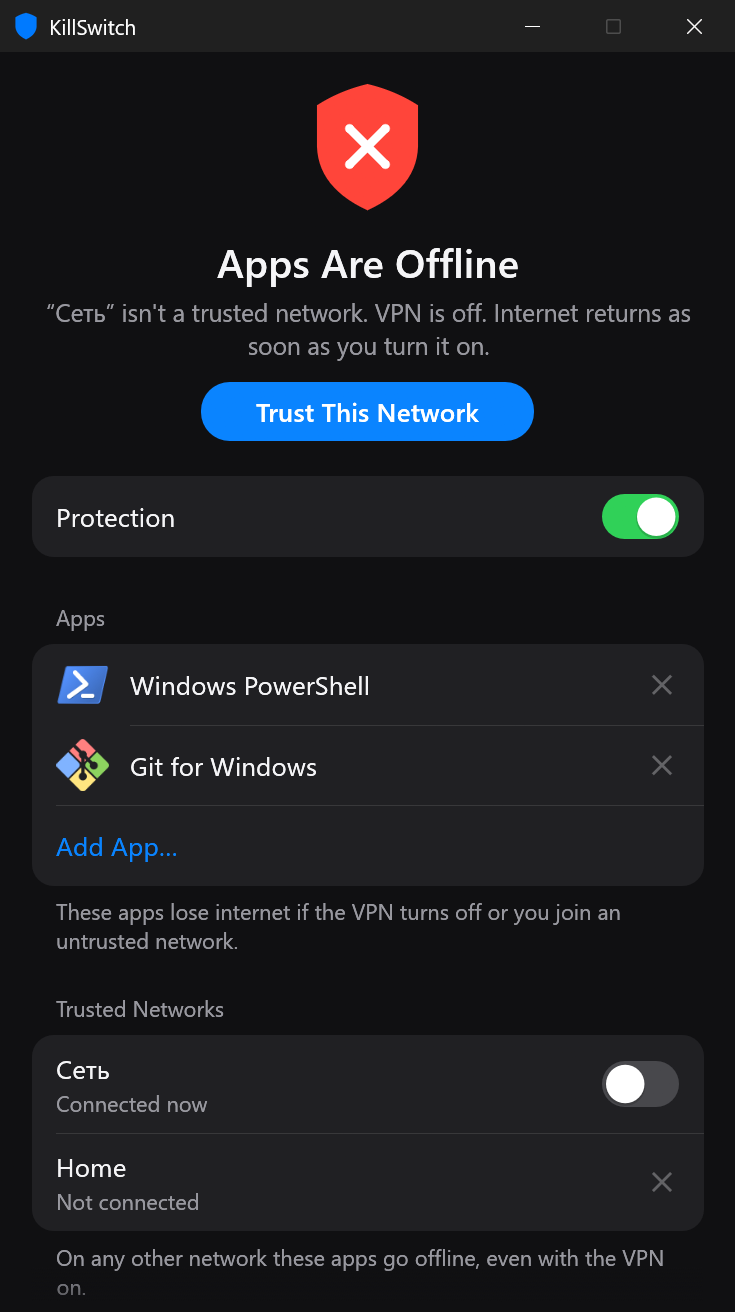
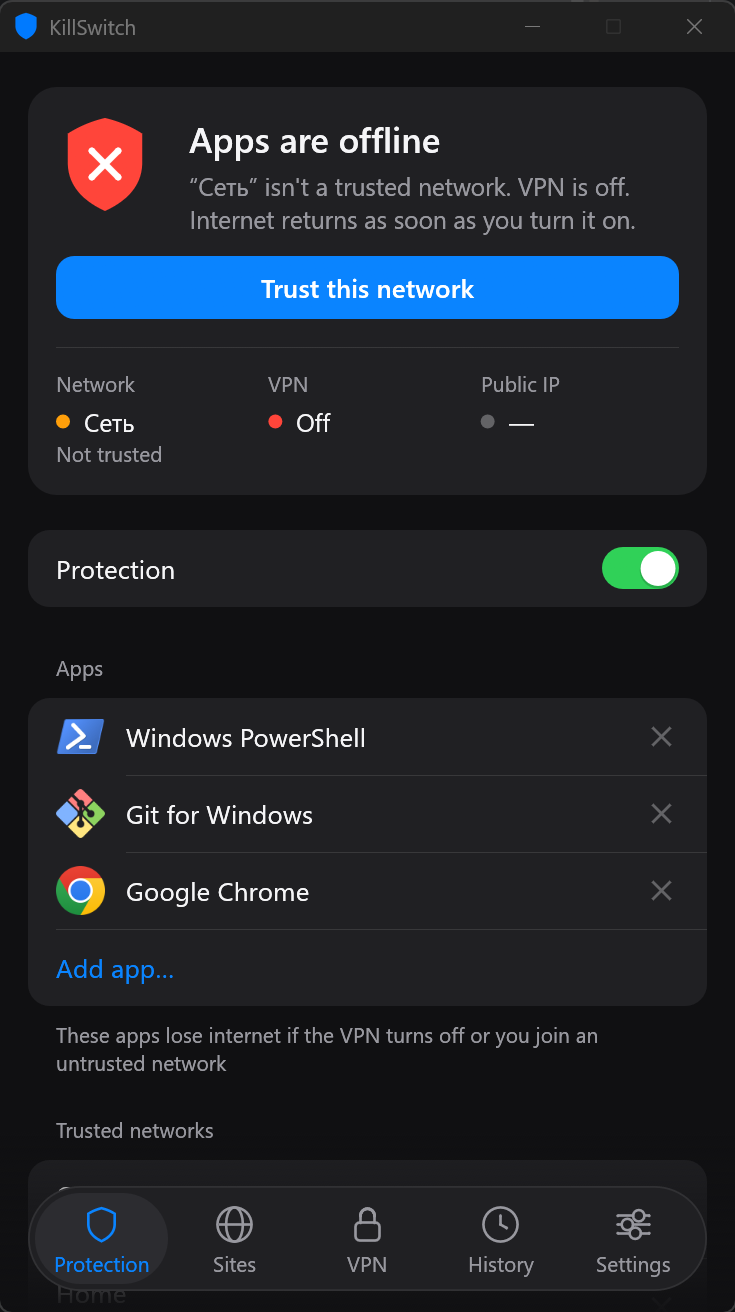
Release 1.6.0 with new screenshots

diff --git a/README.ru.md b/README.ru.md
@@ -27,6 +27,7 @@
 - **Поиск связанных адресов.** При добавлении сайта KillSwitch читает его через VPN и предлагает его поддомены и используемые им сервисы.
 - **Шаблоны.** Запись вроде `*inst*` охватывает все домены с этими буквами в любой зоне. Адреса узнаются из событий DNS-клиента Windows по мере того, как программы обращаются к этим доменам.
 - **Исключения.** Регулярные выражения убирают ненужные домены из результатов поиска и из блокировки. Обычное слово ищется в любом месте домена.
+- **IP и страна.** На главном экране и в подсказке значка в трее видны внешний адрес, через который уходит трафик, и его страна. Адрес проверяется только через VPN, поэтому сервисы никогда не видят ваш настоящий адрес. Отключается на вкладке **VPN**.
 - **Разрешённые серверы.** По желанию приложения и сайты отключаются, если VPN перешёл на сервер, который вы не разрешили. Серверам можно давать названия.
 - **Уведомления и плашка.** Уведомления Windows сообщают, что приложения отключены или снова в сети, а поверх отключённого приложения появляется плашка.
 - **Защита от утечки IPv6.** Если IPv6 пошёл бы мимо туннеля, он отключается для выбранных приложений.
@@ -38,7 +39,7 @@
 - **Автоматическое восстановление.** Интернет возвращается сам, как только условия снова выполнены.
 - **Безопасно при сбое.** Если состояние сети определить не удалось, приложения блокируются. Блокировка переживает сбой и перезагрузку.
 - **История.** Каждое отключение приложений и их возвращение в сеть записывается с причиной и длительностью, а за последние 7 дней видно число блокировок, падений VPN и время без сети.
-- **Состояние с первого взгляда.** На главном экране видны сеть, режим VPN и адрес сервера, список шагов, оставшихся до включения защиты, и быстрые действия: доверять текущей сети или разрешить текущий сервер.
+- **Состояние с первого взгляда.** На главном экране видны сеть, режим VPN, внешний адрес и его страна, список шагов, оставшихся до включения защиты, и быстрые действия: доверять текущей сети или разрешить текущий сервер.
 - **Работает в трее.** Значок показывает текущее состояние.
 - **Русский и английский.** Язык определяется по Windows, его можно выбрать в приложении.
 
@@ -67,7 +68,8 @@
 - **Системный прокси** считается включённым, если в Windows задан прокси на этом компьютере и его порт кто-то слушает.
 - **Блокировка** использует постоянные фильтры [Windows Filtering Platform](https://learn.microsoft.com/windows/win32/fwp/windows-filtering-platform-start-page), привязанные к файлу приложения. В отличие от правил брандмауэра, они действуют и на loopback, через который приложения обращаются к локальному прокси.
 - **Сайты** блокируются по IP-адресам. Пока защита включена, адреса обновляются примерно раз в минуту, во время блокировки чаще, и запоминаются в `%APPDATA%\KillSwitch\sites.json`.
-- **Проверка сервера** по умолчанию выключена. Когда она включена, KillSwitch примерно раз в 15 секунд узнаёт внешний адрес через VPN у [ipify](https://www.ipify.org) или [icanhazip](https://icanhazip.com) и сравнивает его с вашим списком. Эти сервисы видят только адрес VPN.
+- **Внешний адрес** проверяется, пока работает VPN: KillSwitch примерно раз в 15 секунд узнаёт его через VPN у [ipify](https://www.ipify.org) или [icanhazip](https://icanhazip.com), а страну — один раз для каждого нового адреса у [ipwho.is](https://ipwho.is). Эти сервисы видят только адрес VPN, а без VPN запросов нет. Чтобы отключить проверку, выключите **Показывать IP и страну** на вкладке **VPN**.
+- **Проверка сервера** по умолчанию выключена. Когда она включена, внешний адрес сравнивается с вашим списком.
 
 ## Известные ограничения
 

diff --git a/README.md b/README.md
@@ -27,6 +27,7 @@ English · [Русский](README.ru.md)
 - **Finds related addresses.** When you add a site, KillSwitch reads it through the VPN and offers its subdomains and the services it uses.
 - **Patterns.** An entry such as `*inst*` covers every domain containing those letters, in any zone. Its addresses are learned from Windows DNS client events as apps use those domains.
 - **Exclusions.** Regular expressions keep unwanted domains out of the search results and out of blocking. A plain word matches anywhere in the domain.
+- **IP and country.** The main screen and the tray tooltip show the public address your traffic leaves through and its country. It's checked only through the VPN, so the services never see your real address. Can be turned off on the **VPN** tab.
 - **Allowed servers.** Optionally, apps and sites go offline when the VPN moves to a server you haven't allowed. Servers can be given names.
 - **Notifications and a banner.** Windows notifications say when apps are cut off or back online, and a banner appears over an offline app while it's in front.
 - **IPv6 leak guard.** If IPv6 would go around the tunnel, it's turned off for the selected apps.
@@ -38,7 +39,7 @@ English · [Русский](README.ru.md)
 - **Automatic recovery.** Internet returns by itself once the conditions are met again.
 - **Fails closed.** If the network state can't be read, the apps are blocked. A block survives a crash or reboot.
 - **History.** Every time apps go offline or come back is recorded with the reason and how long it lasted, along with counts of blocks, VPN drops and offline time for the last 7 days.
-- **Status at a glance.** The main screen shows the network, VPN mode and server address, a checklist of what's left before protection can be turned on, and one-click fixes such as trusting the current network or allowing the current server.
+- **Status at a glance.** The main screen shows the network, VPN mode, public address and its country, a checklist of what's left before protection can be turned on, and one-click fixes such as trusting the current network or allowing the current server.
 - **Lives in the tray.** The tray icon shows the current state at a glance.
 - **English and Russian.** Follows the Windows display language, or choose one in the app.
 
@@ -67,7 +68,8 @@ Closing the window keeps KillSwitch running in the tray. Quitting from the app o
 - **System proxy** counts as on when Windows has a proxy set on this computer and something is listening on its port.
 - **Blocking** uses persistent [Windows Filtering Platform](https://learn.microsoft.com/windows/win32/fwp/windows-filtering-platform-start-page) filters keyed to each executable. Unlike firewall rules, these also cover loopback, which is how apps reach a local proxy.
 - **Sites** are blocked by IP address. Addresses are looked up about once a minute while protection is on, and more often during a block, then remembered in `%APPDATA%\KillSwitch\sites.json`.
-- **Server check** is off by default. When on, KillSwitch asks [ipify](https://www.ipify.org) or [icanhazip](https://icanhazip.com) for your public address through the VPN about every 15 seconds and compares it with your allowed list. Those services see only your VPN's address.
+- **Public address** is checked while the VPN is on: KillSwitch asks [ipify](https://www.ipify.org) or [icanhazip](https://icanhazip.com) through the VPN about every 15 seconds, and [ipwho.is](https://ipwho.is) once per new address for its country. Those services see only your VPN's address, and nothing is asked while the VPN is off. Turn off **Show IP and country** on the **VPN** tab to stop it.
+- **Server check** is off by default. When on, the public address is compared with your allowed list.
 
 ## Known limitations
 
